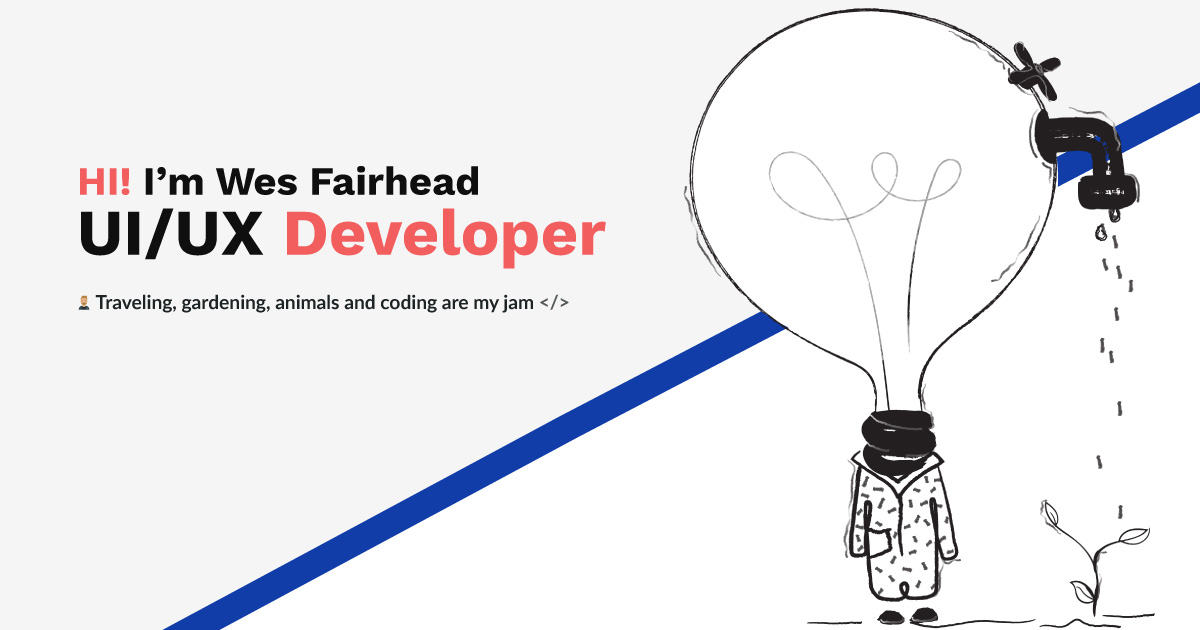
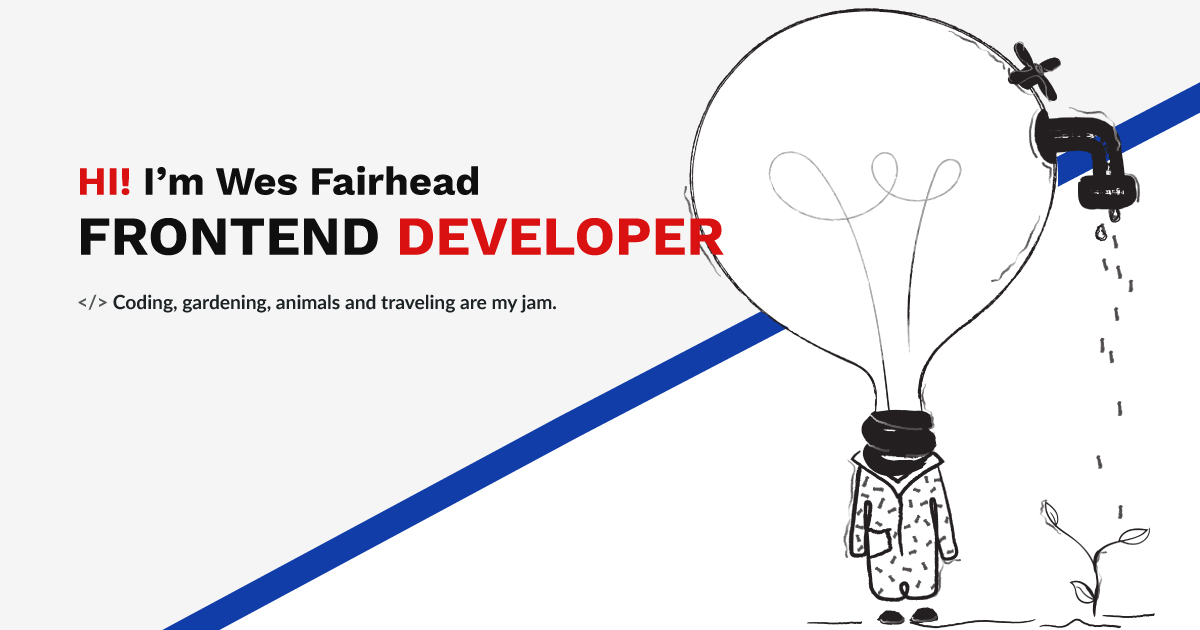
updating social image, meta data, and hero text. Added readme for deploy instructions

Changed region(s): [[0.0617, 0.2714, 0.6167, 0.4222], [0.0617, 0.4524, 0.4625, 0.5127]]

diff --git a/_includes/_index/_hero.html b/_includes/_index/_hero.html
@@ -11,8 +11,7 @@
 					<span class="sub-letters">Frontend <span class="text-danger">Developer</span></span>
 				</h2>
 				<span class="d-block subheader-copy">
-					<img class="jam" src="/assets/images/wes.png" alt="Avatar image for a person with blond hair"/>
-					Traveling, gardening, animals and coding are my jam&nbsp;<i class="far fa-code text-dark fade-50"></i>
+					<i class="far fa-code text-dark fade-50 pr-2"></i>Coding, gardening, animals and traveling are my jam.
 				</span>
 				<div class="pt-3">
 					<a href="/work" class="mantra-link">My Work<i class="fal fa-long-arrow-right pl-2"></i></a>

diff --git a/README.md b/README.md
@@ -1,0 +1,1 @@
+run `netlify deploy --prod` to deploy to production `https://westerfer.netlify.app/`
